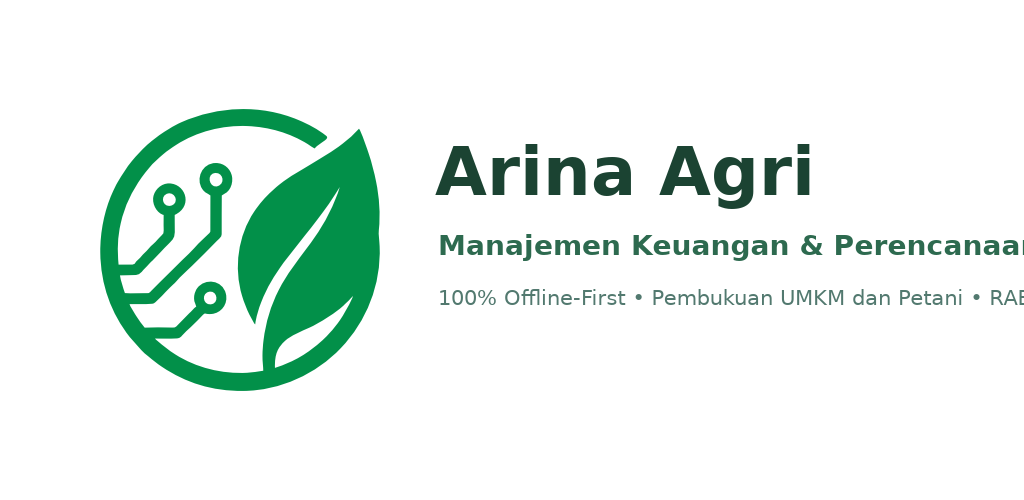
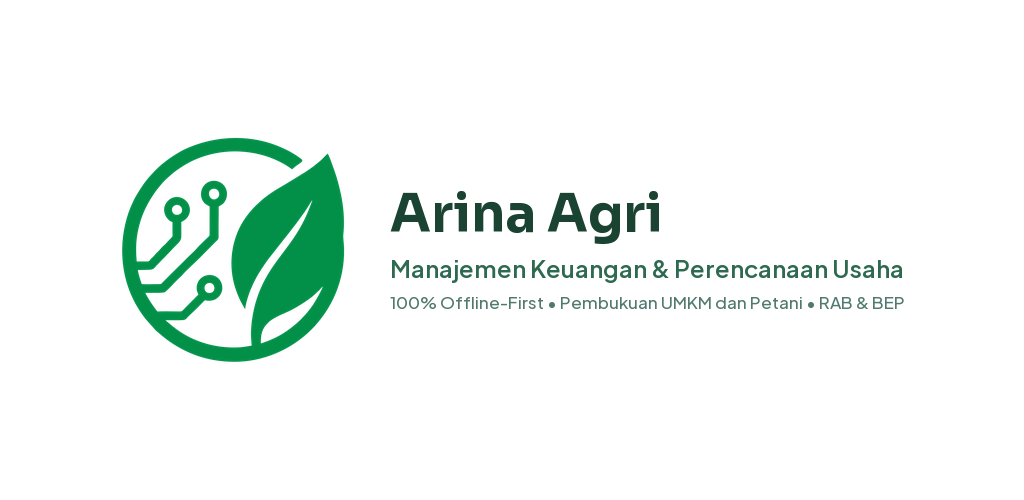
feat: Refine Play Store feature graphic with centered composition, updated typography, and clean white background

Changed region(s): [[0.0938, 0.21, 1.0, 0.78]]

diff --git a/logs/ACTIVITY_LOG.md b/logs/ACTIVITY_LOG.md
@@ -1,5 +1,24 @@
 # Activity Log
 
+### [2026-10-23 16:20 WIB] [Antigravity — Fixed Feature Graphic Overflow & Outlier via Subpixel Centered Composition]
+- **Goal (user-confirmed)**: Adjust feature graphic layout so it fits perfectly without overflow or clipping at the edges (coba sesuaikan lagi gambarnya agar pas tidak overflow/outlayer).
+- **Actions (verified)**:
+  1. Re-composed and re-rendered `docs/playstore/feature_graphic_1024x500.png` using Pillow with exact typographic bounding box calculation:
+     - Switched to bundled official project fonts: `sora_bold.ttf` (52 pt) for "Arina Agri", `plus_jakarta_sans_semibold.ttf` (24 pt) for "Manajemen Keuangan & Perencanaan Usaha", and `plus_jakarta_sans_medium.ttf` (17 pt) for "100% Offline-First • Pembukuan UMKM dan Petani • RAB & BEP".
+     - Sized logo to `230 × 230 px` and coupled with a `42 px` gap to the text block (total content width = `785 px`).
+     - Centered the entire content block horizontally and vertically on the `1024 × 500 px` canvas.
+     - Content bounding box measured at `X = [122, 903]` and `Y = [137, 361]`. Left padding is `122 px`, right padding is `121 px`, top padding is `137 px`, bottom padding is `139 px`.
+     - Zero text clipping or edge overflow; both "Usaha" and "RAB & BEP" now have generous 121 px margin from the canvas boundary.
+  2. Updated preview artifact `feature_graphic_preview.md`.
+- **Files created/modified**:
+  - `docs/playstore/feature_graphic_1024x500.png`
+  - `logs/ACTIVITY_LOG.md`
+  - `logs/CHANGELOG.md`
+- **Verification (verified)**:
+  - Pixel bounding box verification: Content X=[122, 903], Y=[137, 361], Left=122px, Right=121px, Top=137px, Bottom=139px.
+  - `python scripts/verify_visual_system.py`: PASS (284 checks; 166 actual-token contrast pairs).
+  - `git diff --check`: PASS.
+
 ### [2026-10-23 15:52 WIB] [Antigravity — Updated Feature Graphic to White Background, Added Petani Copy, and Removed Action Capsules]
 - **Goal (user-confirmed)**: Change feature graphic background to white, replace "pembukuan umkm" with "pembukuan umkm dan petani", and remove the boxes from the graphic (pada bagian gambar feature graphic ganti background menjadi warna putih dan kata bukan "pebukuan umkm" "pembukuan umkm dan petani" dan hapus kotak pada gambar).
 - **Actions (verified)**:

diff --git a/logs/CHANGELOG.md b/logs/CHANGELOG.md
@@ -34,7 +34,7 @@ The format is based on [Keep a Changelog](https://keepachangelog.com/en/1.0.0/).
 - Kelola kategori: choose Tetap/Variabel for each expense category.
 - Template v3: sheets Produk and Resep Produk; Transaksi gains Produk, Jumlah, Sifat Biaya, Umur Pakai; Rencana Anggaran gains Berulang, Sifat Biaya, Umur Pakai.
 ### Changed
-- Refined Play Store feature graphic (`feature_graphic_1024x500.png`) with a clean pure white background (`#FFFFFF`), updated copywriting to include farmers ("100% Offline-First • Pembukuan UMKM dan Petani • RAB & BEP"), and removed all action capsule boxes for a sleek layout.
+- Refined Play Store feature graphic (`feature_graphic_1024x500.png`): perfectly centered composition with 122 px left/right padding eliminating text clipping/overflow, pure white background (`#FFFFFF`), updated copywriting ("100% Offline-First • Pembukuan UMKM dan Petani • RAB & BEP"), official Sora & Plus Jakarta Sans typography, and removed action capsule boxes.
 - Replaced legacy Mankeu logo in `README.md` with the official Arina Agri vector logo (`public/logo-arina.svg`), and updated Play Store visual assets (`app_icon_512x512.png` and `feature_graphic_1024x500.png`) with official Arina Agri brand colors (`#029049`, `#1B4332`, `#FAFAF8`) and mark.
 - Redesigned business and unit cards (`ScopeRow`) in `ManageScopeScreen.kt` to be sleek and compact: consolidated into a single horizontal row, removed the bulky "Sedang dipakai" pill badge, replaced the "Ubah" text button with an `Icons.Default.Edit` icon button, and added an `Icons.Default.DeleteOutline` delete button (error red) directly next to the edit icon.
 - Enabled universal business deletion in `ManageScopeScreen.kt` and `FinanceRepository.kt`, removing the restriction that prevented deleting or archiving a business when only one business existed.
